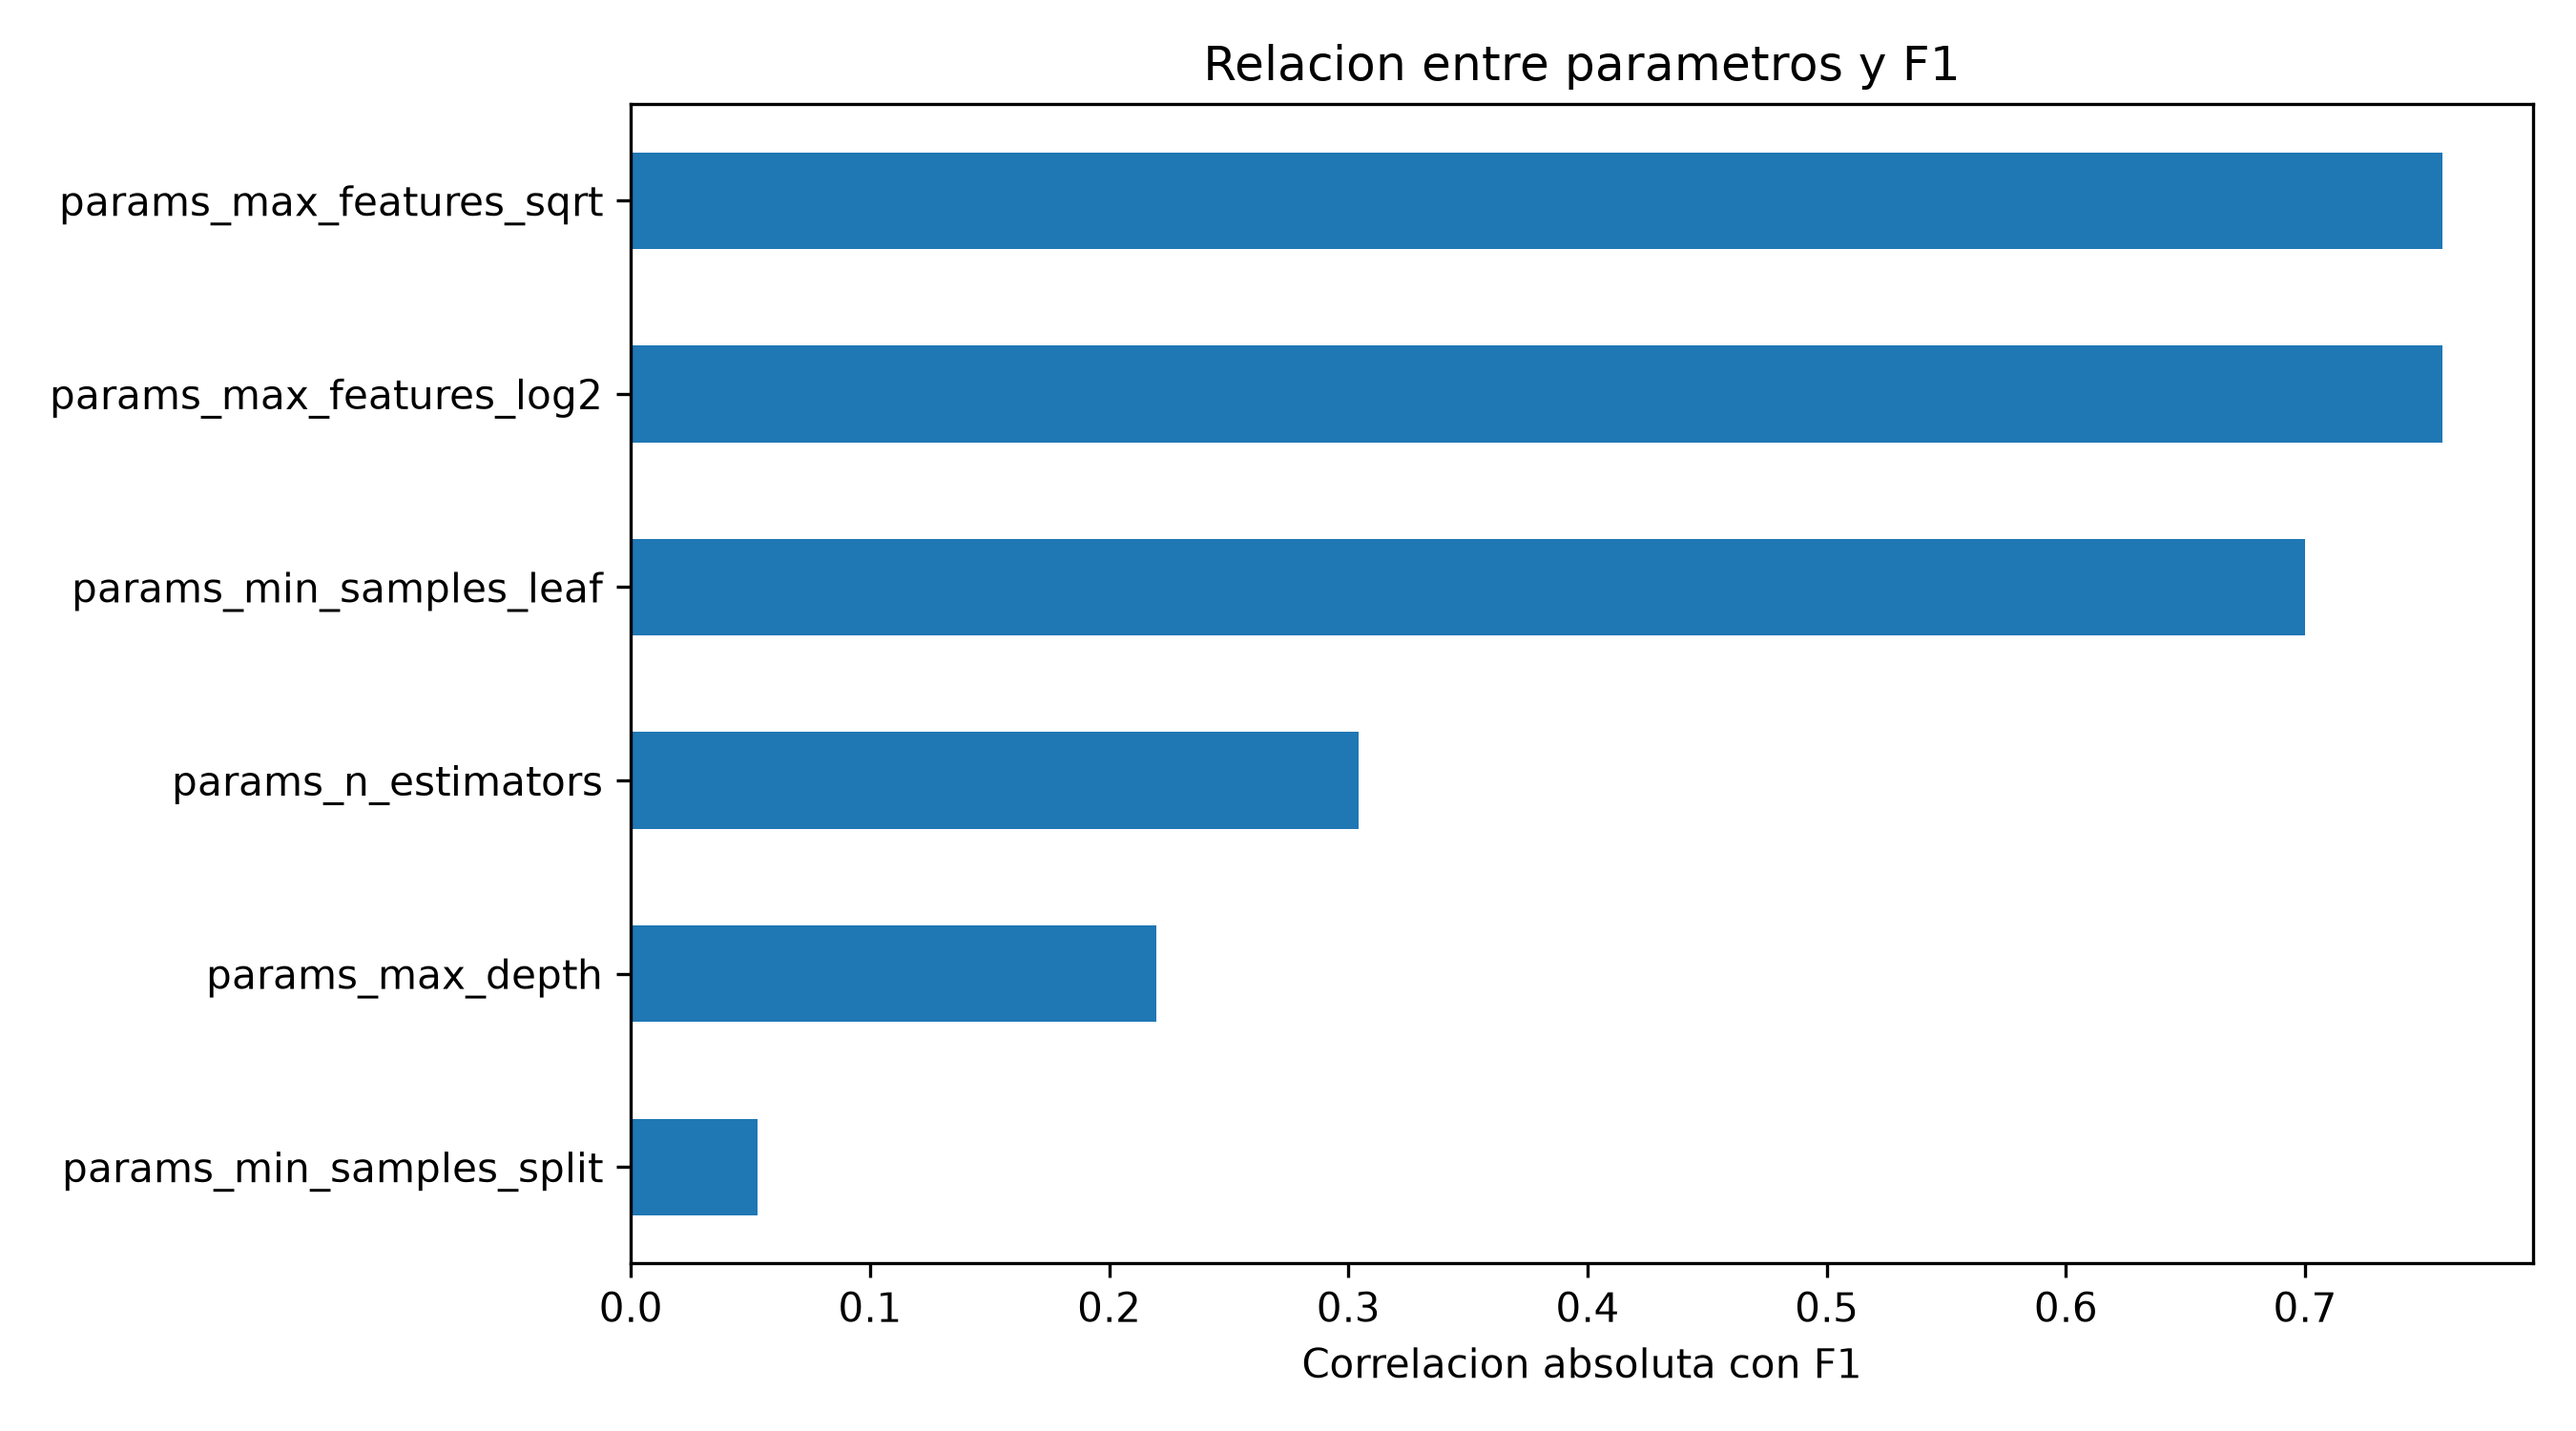
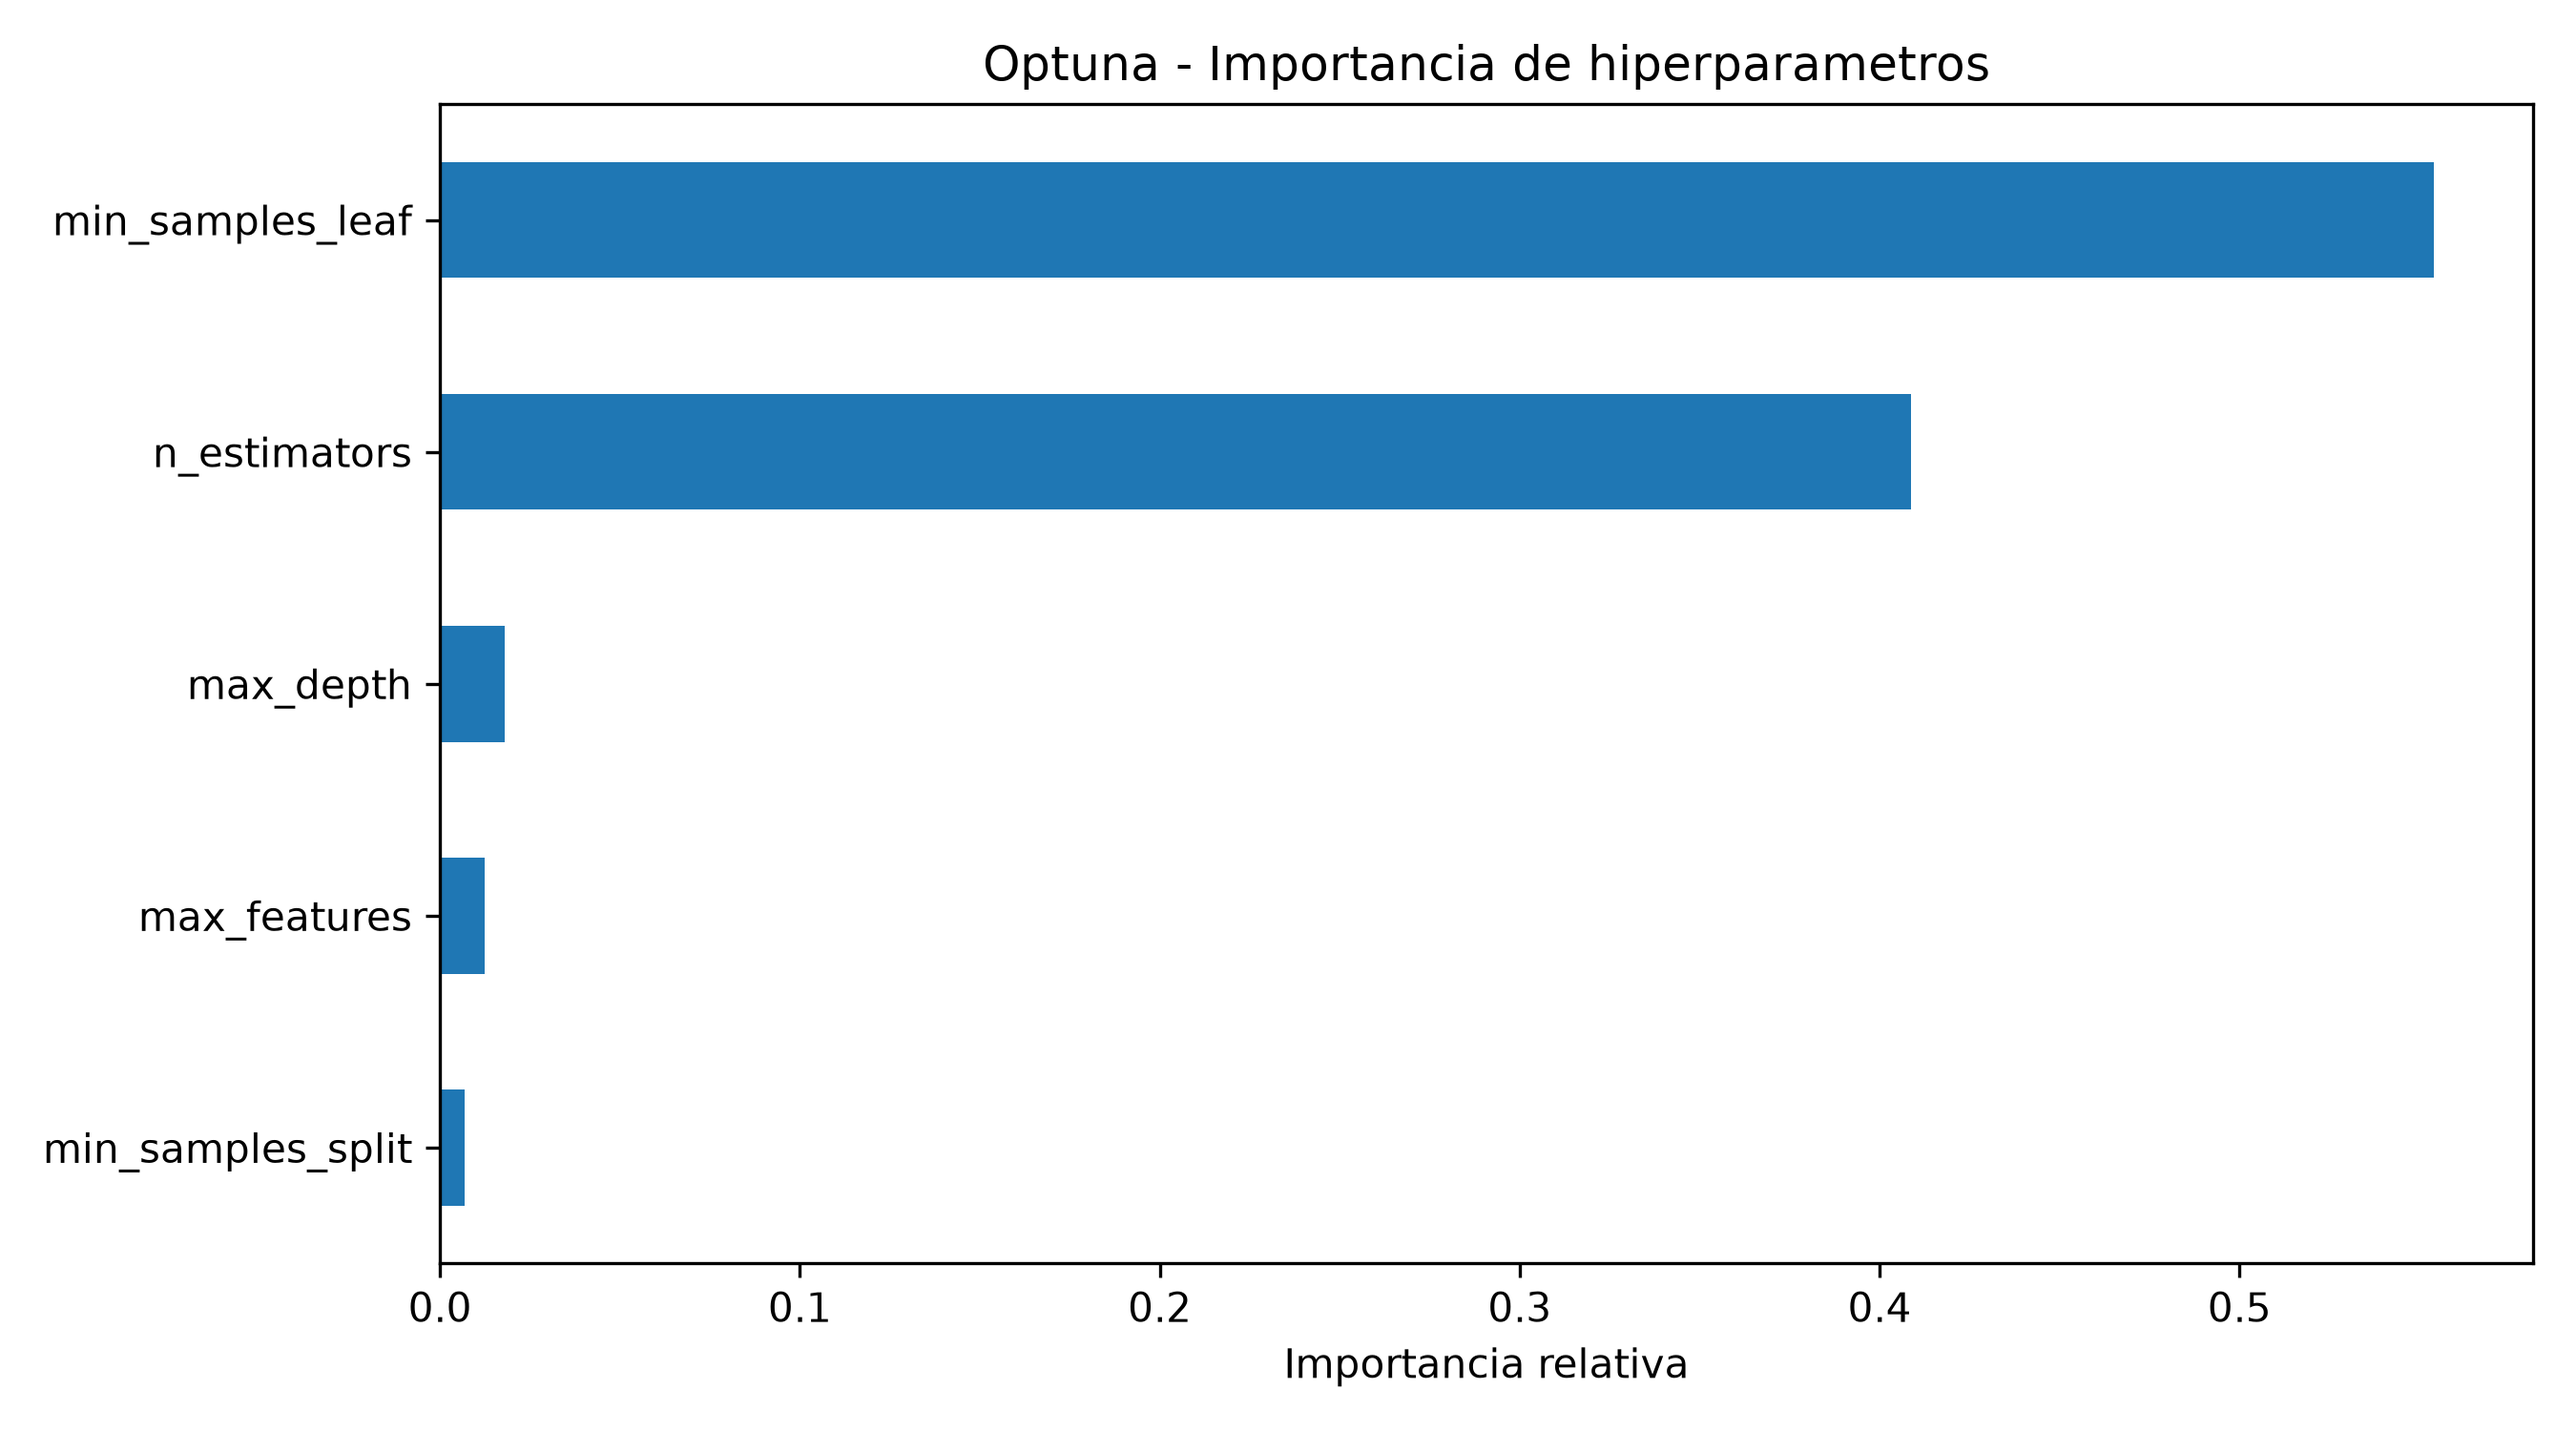
Corregir y documentar sesiones 1 a 5

diff --git a/src/p2_05_optuna_analisis.py b/src/p2_05_optuna_analisis.py
@@ -1,7 +1,7 @@
 
 from pathlib import Path
 import json
-
+import optuna
 import matplotlib.pyplot as plt
 import pandas as pd
 from sklearn.ensemble import RandomForestClassifier
@@ -83,33 +83,29 @@ def main():
     )
     plt.close()
 
-    # Grafica 2: importancia de hiperparametros
-    # Se calcula mediante correlacion absoluta de Spearman.
-    columnas = [
-        c for c in trials.columns
-        if c.startswith("params_")
-    ]
-
-    codificados = pd.get_dummies(
-        trials[columnas], dtype=float
+    
+# Grafica 2: importancia oficial de Optuna
+    estudio = optuna.load_study(
+        study_name="p2_random_forest",
+        storage=f"sqlite:///{(DATOS / 'p2_optuna.db').as_posix()}"
     )
 
-    importancias = (
-        codificados.corrwith(
-            trials["value"], method="spearman"
-        )
-        .abs()
-        .fillna(0)
-        .sort_values()
+    importancias = optuna.importance.get_param_importances(
+        estudio
     )
+
+    serie = pd.Series(importancias).sort_values()
 
     plt.figure(figsize=(9, 5))
-    importancias.plot(kind="barh")
-    plt.xlabel("Correlacion absoluta con F1")
-    plt.title("Relacion entre parametros y F1")
+    serie.plot(kind="barh")
+
+    plt.xlabel("Importancia relativa")
+    plt.title("Optuna - Importancia de hiperparametros")
     plt.tight_layout()
+
     plt.savefig(
-        FIGURAS / "optuna_parametros.png", dpi=300
+        FIGURAS / "optuna_parametros.png",
+        dpi=300
     )
     plt.close()
 

diff --git a/src/p2_04_optuna.py b/src/p2_04_optuna.py
@@ -65,9 +65,12 @@ def main():
         return float(puntuaciones.mean())
 
     estudio = optuna.create_study(
-        direction="maximize",
-        sampler=optuna.samplers.TPESampler(seed=42)
-    )
+    direction="maximize",
+    sampler=optuna.samplers.TPESampler(seed=42),
+    storage=f"sqlite:///{(SALIDA / 'p2_optuna.db').as_posix()}",
+    study_name="p2_random_forest",
+    load_if_exists=True
+)
 
     estudio.optimize(objetivo, n_trials=N_TRIALS)
 
